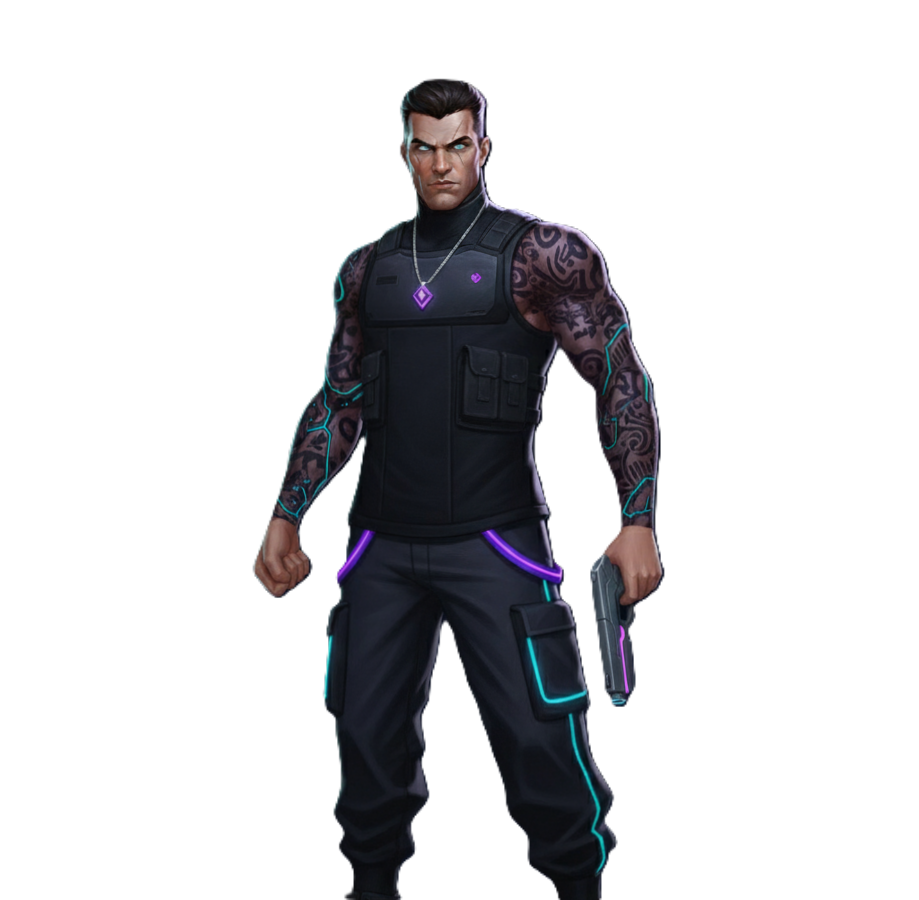
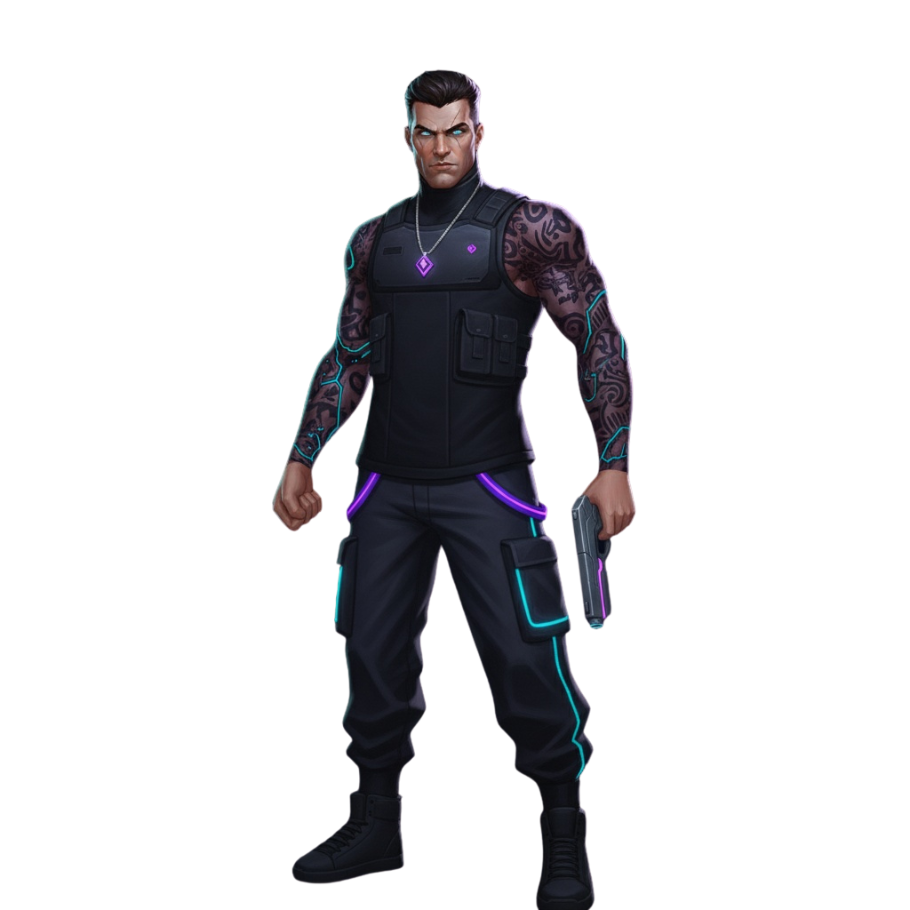
Ajustes nas telas de login e cadastro

Changed region(s): [[0.2769, 0.0622, 0.7385, 1.0]]

diff --git a/lib/screens/signup_screen.dart b/lib/screens/signup_screen.dart
@@ -103,7 +103,8 @@ class _SignUpScreenState extends State<SignUpScreen> {
   @override
   Widget build(BuildContext context) {
     final screenWidth = MediaQuery.of(context).size.width;
-    final isLargeScreen = screenWidth > 800;
+    final isLargeScreen =
+        screenWidth > 960; // Aumentei o breakpoint para dar mais espaço
 
     return Scaffold(
       backgroundColor: const Color(0xFF1A1A2E),
@@ -111,46 +112,42 @@ class _SignUpScreenState extends State<SignUpScreen> {
         child: isLargeScreen
             ? Row(
                 children: [
+                  // --- PAINEL DA ESQUERDA CORRIGIDO ---
                   Expanded(
                     flex: 1,
-                    child: Stack(
-                      children: [
-                        // Imagem de fundo da personagem
-                        Positioned(
-                          right:
-                              -100, // Ajuste este valor para mover a imagem para a esquerda
-                          top: 0,
-                          bottom: 0,
-                          child: Image.asset(
-                            'assets/background_signup.png',
-                            fit: BoxFit.cover,
-                          ),
+                    child: Container(
+                      decoration: const BoxDecoration(
+                        image: DecorationImage(
+                          image: AssetImage('assets/background_signup.png'),
+                          // ALINHAMENTO DA IMAGEM É A CHAVE DA CORREÇÃO
+                          // Alinha a imagem pela esquerda, garantindo que a arma sempre apareça.
+                          alignment: Alignment.centerLeft,
+                          fit: BoxFit.cover,
                         ),
-                        // Conteúdo da esquerda (Logo e texto "CRIAR UMA CONTA")
-                        Padding(
-                          padding: const EdgeInsets.all(48.0),
-                          child: Column(
-                            crossAxisAlignment: CrossAxisAlignment.start,
-                            children: [
-                              Image.asset(
-                                'assets/erank_logo.png',
-                                height: 200,
+                      ),
+                      child: Padding(
+                        padding: const EdgeInsets.all(48.0),
+                        child: Column(
+                          crossAxisAlignment: CrossAxisAlignment.start,
+                          children: [
+                            Image.asset(
+                              'assets/erank_logo.png',
+                              height: 220,
+                            ),
+                            const Spacer(),
+                            Text(
+                              'CRIAR UMA\nCONTA',
+                              style: GoogleFonts.exo2(
+                                fontSize: 64,
+                                color: Colors.white,
+                                fontWeight: FontWeight.bold,
+                                height: 1.0,
                               ),
-                              const Spacer(),
-                              Text(
-                                'CRIAR UMA\nCONTA',
-                                style: GoogleFonts.exo2(
-                                  fontSize: 64,
-                                  color: Colors.white,
-                                  fontWeight: FontWeight.bold,
-                                  height: 1.0,
-                                ),
-                              ),
-                              const Spacer(),
-                            ],
-                          ),
+                            ),
+                            const Spacer(),
+                          ],
                         ),
-                      ],
+                      ),
                     ),
                   ),
                   Expanded(
@@ -174,7 +171,8 @@ class _SignUpScreenState extends State<SignUpScreen> {
     return SingleChildScrollView(
       padding: const EdgeInsets.symmetric(horizontal: 24.0, vertical: 40.0),
       child: ConstrainedBox(
-        constraints: const BoxConstraints(maxWidth: 750),
+        constraints: const BoxConstraints(
+            maxWidth: 550), // Diminuí um pouco para dar mais espaço à imagem
         child: Container(
           decoration: BoxDecoration(
             color: Colors.white,
@@ -211,18 +209,16 @@ class _SignUpScreenState extends State<SignUpScreen> {
                 ),
                 const SizedBox(height: 30),
 
-                // TODOS OS CAMPOS E VALIDAÇÕES ESTÃO DE VOLTA AQUI
+                // ... (O restante do seu formulário, que já está correto, vem aqui)
                 TextFormField(
                   controller: _nicknameController,
                   decoration: _buildInputDecoration('NICKNAME',
                       isWhiteBackground: true),
                   style: const TextStyle(color: Colors.black87),
                   validator:
-                      RequiredValidator(errorText: 'Nickname é obrigatório')
-                          .call,
+                      RequiredValidator(errorText: 'Nickname é obrigatório'),
                 ),
                 const SizedBox(height: 20),
-
                 TextFormField(
                   controller: _emailController,
                   decoration:
@@ -232,10 +228,9 @@ class _SignUpScreenState extends State<SignUpScreen> {
                   validator: MultiValidator([
                     RequiredValidator(errorText: 'E-mail é obrigatório'),
                     EmailValidator(errorText: 'Insira um e-mail válido')
-                  ]).call,
+                  ]),
                 ),
                 const SizedBox(height: 20),
-
                 TextFormField(
                   controller: _confirmEmailController,
                   decoration: _buildInputDecoration('CONFIRME O E-MAIL',
@@ -247,7 +242,6 @@ class _SignUpScreenState extends State<SignUpScreen> {
                           .validateMatch(val!, _emailController.text),
                 ),
                 const SizedBox(height: 20),
-
                 TextFormField(
                   controller: _cpfController,
                   decoration:
@@ -264,7 +258,6 @@ class _SignUpScreenState extends State<SignUpScreen> {
                   },
                 ),
                 const SizedBox(height: 20),
-
                 TextFormField(
                   controller: _phoneController,
                   decoration: _buildInputDecoration('TELEFONE',
@@ -281,7 +274,6 @@ class _SignUpScreenState extends State<SignUpScreen> {
                   },
                 ),
                 const SizedBox(height: 20),
-
                 TextFormField(
                   controller: _passwordController,
                   obscureText: true,
@@ -294,10 +286,9 @@ class _SignUpScreenState extends State<SignUpScreen> {
                         errorText: 'A senha deve ter no mínimo 8 caracteres'),
                     MaxLengthValidator(20,
                         errorText: 'A senha deve ter no máximo 20 caracteres')
-                  ]).call,
+                  ]),
                 ),
                 const SizedBox(height: 20),
-
                 TextFormField(
                   controller: _confirmPasswordController,
                   obscureText: true,
@@ -309,7 +300,6 @@ class _SignUpScreenState extends State<SignUpScreen> {
                           .validateMatch(val!, _passwordController.text),
                 ),
                 const SizedBox(height: 10),
-
                 CheckboxListTile(
                   title: Text(
                     'Sim, permito o envio de informações e eventos.',
@@ -327,7 +317,6 @@ class _SignUpScreenState extends State<SignUpScreen> {
                   contentPadding: EdgeInsets.zero,
                 ),
                 const SizedBox(height: 30),
-
                 SizedBox(
                   height: 60,
                   child: ElevatedButton(
@@ -351,7 +340,6 @@ class _SignUpScreenState extends State<SignUpScreen> {
                   ),
                 ),
                 const SizedBox(height: 30),
-
                 TextButton(
                   onPressed: () {
                     Navigator.pushReplacement(

diff --git a/lib/screens/login_screen.dart b/lib/screens/login_screen.dart
@@ -144,7 +144,7 @@ class _LoginScreenState extends State<LoginScreen> {
                               children: [
                                 Image.asset(
                                   'assets/erank_logo.png',
-                                  height: 200,
+                                  height: 300,
                                 ),
                                 const Spacer(),
                                 Text(
